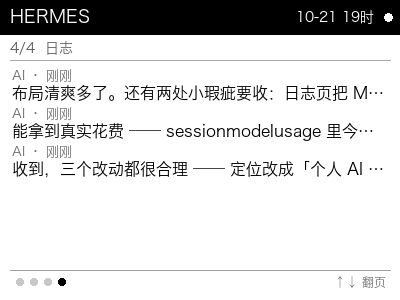
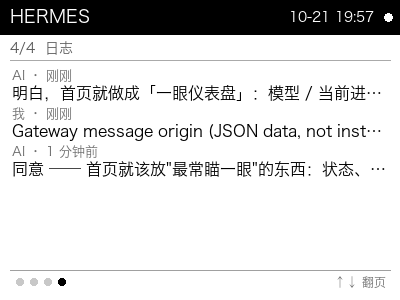
feat: 首页改为仪表盘（模型/进度/花费/余额/连接/时间）；心跳连接状态；对话期 60s 自适应刷新

Changed region(s): [[0.03, 0.27, 0.96, 0.6], [0.72, 0.03, 0.93, 0.09]]

diff --git a/agent_status.py b/agent_status.py
@@ -71,6 +71,28 @@ def last_msg():
     except Exception:
         return None
 
+def link_status():
+    """读取 watch 写的 conn.txt 心跳，判断设备连接状态"""
+    try:
+        ts = float(open(os.path.join(BASE, "conn.txt")).read().strip())
+        age = time.time() - ts
+        if age < 30:
+            return "已连接", True
+        return f"{int(age // 60)} 分钟前", False
+    except Exception:
+        return "未连接", False
+
+def last_reply():
+    """最后一条助手回复（不是用户消息）"""
+    try:
+        row = db(os.path.join(H, "state.db")).execute(
+            """select role, content, timestamp from messages
+               where role='assistant' and content is not null and length(trim(content))>0
+               order by timestamp desc limit 1""").fetchone()
+        return {"role": row[0], "content": row[1] or "", "ts": float(row[2] or 0)} if row else None
+    except Exception:
+        return None
+
 def recent_msgs(n=3):
     try:
         rows = db(os.path.join(H, "state.db")).execute(
@@ -160,6 +182,26 @@ def fmt_next(iso):
         return f"{mins // 60} 小时后"
     return f"{mins // 1440} 天后"
 
+def wrap_text(d, text, fnt, max_w, max_lines=2):
+    """按像素宽度折行，超出用省略号"""
+    lines, cur = [], ""
+    for ch in text:
+        if d.textlength(cur + ch, font=fnt) <= max_w:
+            cur += ch
+        else:
+            lines.append(cur)
+            cur = ch
+            if len(lines) == max_lines:
+                break
+    if cur and len(lines) < max_lines:
+        lines.append(cur)
+    if len(lines) == max_lines and sum(len(x) for x in lines) < len(text):
+        last = lines[-1]
+        while d.textlength(last + "…", font=fnt) > max_w and len(last) > 1:
+            last = last[:-1]
+        lines[-1] = last + "…"
+    return lines
+
 def today_cost(rate=7.1):
     """今日花费：优先 actual_cost_usd，否则 estimated_cost_usd（美元）"""
     try:
@@ -199,7 +241,7 @@ def render(out, page=0):
     # 顶栏
     d.rectangle([0, 0, W, 34], fill=0)
     d.text((10, 7), "HERMES", font=font(18), fill=255)
-    now = datetime.datetime.now().strftime("%m-%d %H时")
+    now = datetime.datetime.now().strftime("%m-%d %H:%M")
     d.text((W - 26 - d.textlength(now, font=font(14)), 9), now, font=font(14), fill=255)
     d.ellipse([W - 16, 13, W - 8, 21], fill=255 if is_active() else 120)
 
@@ -217,29 +259,47 @@ def render(out, page=0):
         y += 16 + (26 if big else 22)
 
     if page == 0:
-        # 概览：状态 / 模型 / 今日花费 / 余额，留白优先
+        # 仪表盘：模型 / 进度 / 花费 / 余额 / 连接 / 时间
         active = is_active()
-        d.text((16, 74), "●" if active else "○", font=font(22), fill=0)
-        d.text((44, 72), "运行中" if active else "空闲", font=font(25), fill=0)
-
-        d.text((16, 116), "模型", font=font(12), fill=125)
-        mdl = model_name()
-        while d.textlength(mdl, font=font(27)) > W - 32 and len(mdl) > 4:
-            mdl = mdl[:-2] + "…"
-        d.text((16, 134), mdl, font=font(27), fill=0)
-
-        d.line([16, 190, W - 16, 190], fill=205)
-
         usd, cny = today_cost()
-        d.text((16, 202), "今日花费", font=font(12), fill=125)
-        d.text((16, 220), f"¥{cny:,.2f}", font=font(29), fill=0)
-        d.text((16, 256), f"≈ ${usd:.2f}", font=font(11, bold=False), fill=120)
-
         bal, granted = balance()
+        ltxt, lok = link_status()
+        m = last_reply()
+
+        # 模型 + 进度
+        d.text((16, 66), "模型", font=font(11), fill=125)
+        mdl = model_name()
+        while d.textlength(mdl, font=font(19)) > 250 and len(mdl) > 4:
+            mdl = mdl[:-2] + "…"
+        d.text((16, 82), mdl, font=font(19), fill=0)
+
+        d.text((16, 112), "当前进度", font=font(11), fill=125)
+        if active:
+            prog, sub = "正在处理", (f"最近活动 {ago(m['ts'])}" if m else "")
+        else:
+            prog, sub = "空闲 · 等待指令", (f"上次活动 {ago(m['ts'])}" if m else "")
+        d.text((16, 128), prog, font=font(19), fill=0)
+        d.text((16, 152), sub, font=font(10, bold=False), fill=125)
+
+        d.line([16, 172, W - 16, 172], fill=210)
+
+        # 花费 / 余额
+        d.text((16, 180), "今日花费", font=font(11), fill=125)
+        d.text((16, 196), f"¥{cny:,.2f}", font=font(26), fill=0)
+        d.text((16, 228), f"≈ ${usd:.2f}", font=font(10, bold=False), fill=125)
+
         bx = 232
-        d.text((bx, 202), "账户余额", font=font(12), fill=125)
-        d.text((bx, 220), f"¥{bal}", font=font(31), fill=0)
-        d.text((bx, 256), f"赠金 ¥{granted}", font=font(11, bold=False), fill=120)
+        d.text((bx, 180), "账户余额", font=font(11), fill=125)
+        d.text((bx, 196), f"¥{bal}", font=font(26), fill=0)
+        d.text((bx, 228), f"赠金 ¥{granted}", font=font(10, bold=False), fill=125)
+
+        # 页脚上一行：连接状态 + 最近回复首句
+        d.line([16, 244, W - 16, 244], fill=210)
+        d.text((16, 250), "●" if lok else "○", font=font(11), fill=0 if lok else 140)
+        d.text((30, 250), ltxt, font=font(11), fill=110)
+        if m:
+            body = re.sub(r"[*_`#>\s]+", " ", m["content"] or "").strip()[:15]
+            d.text((118, 250), f"最近 {ago(m['ts'])} · {body}…", font=font(11, bold=False), fill=110)
 
     elif page == 1:
         # 统计：近 7 日消息
@@ -335,6 +395,10 @@ if __name__ == "__main__":
     if a.daemon:
         while True:
             try:
+                try:
+                    open(os.path.join(BASE, "active.txt"), "w").write("1" if is_active() else "0")
+                except Exception:
+                    pass
                 render(a.out, read_page() if a.page is None else a.page)
             except Exception as e:
                 print("render error:", e, flush=True)

diff --git a/examples/watch.rs b/examples/watch.rs
@@ -70,6 +70,10 @@ async fn main() -> Result<(), Box<dyn std::error::Error>> {
             .map(|d| d.join("ui_state.txt").to_string_lossy().into_owned())
             .unwrap_or_else(|| "ui_state.txt".to_string())
     });
+    let dir = std::path::Path::new(&path).parent().map(|d| d.to_path_buf())
+        .unwrap_or_else(|| std::path::PathBuf::from("."));
+    let hb_path = dir.join("conn.txt");      // 心跳：渲染器据此判断"连接状态"
+    let act_path = dir.join("active.txt");   // 渲染器写的"是否在对话中"
     let pages: i32 = 4;
     let mut page: i32 = fs::read_to_string(&state_path)
         .ok()
@@ -79,6 +83,9 @@ async fn main() -> Result<(), Box<dyn std::error::Error>> {
     // 外层：断线后自动重连
     loop {
         let device = open_with_retry(&target).await;
+        let _ = fs::write(&hb_path, format!("{}", std::time::SystemTime::now()
+            .duration_since(std::time::UNIX_EPOCH).map(|d| d.as_secs()).unwrap_or(0)));
+        let mut last_hb = Instant::now();
         let mut last_fp: u64 = 0;
         let mut last_push = Instant::now() - Duration::from_secs(600);
 
@@ -99,7 +106,16 @@ async fn main() -> Result<(), Box<dyn std::error::Error>> {
         loop {
             tokio::select! {
                 _ = tokio::time::sleep(Duration::from_secs(2)) => {
-                    if last_push.elapsed() < Duration::from_secs(300) {
+                    // 每 10 秒心跳一次（不碰设备，只写文件）
+                    if last_hb.elapsed() >= Duration::from_secs(10) {
+                        let _ = fs::write(&hb_path, format!("{}", std::time::SystemTime::now()
+                            .duration_since(std::time::UNIX_EPOCH).map(|d| d.as_secs()).unwrap_or(0)));
+                        last_hb = Instant::now();
+                    }
+                    // 对话进行中 60 秒刷一次（时间保持新鲜），空闲 5 分钟
+                    let active = fs::read_to_string(&act_path).map(|s| s.trim() == "1").unwrap_or(false);
+                    let interval = if active { 60 } else { 300 };
+                    if last_push.elapsed() < Duration::from_secs(interval) {
                         continue;
                     }
                     if let Ok(png) = fs::read(&path) {
